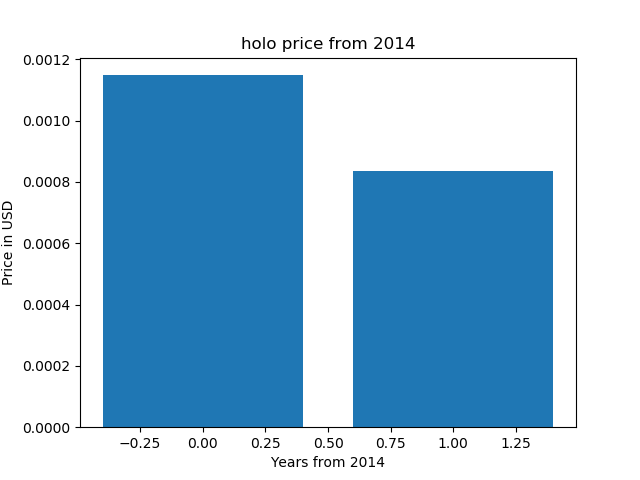
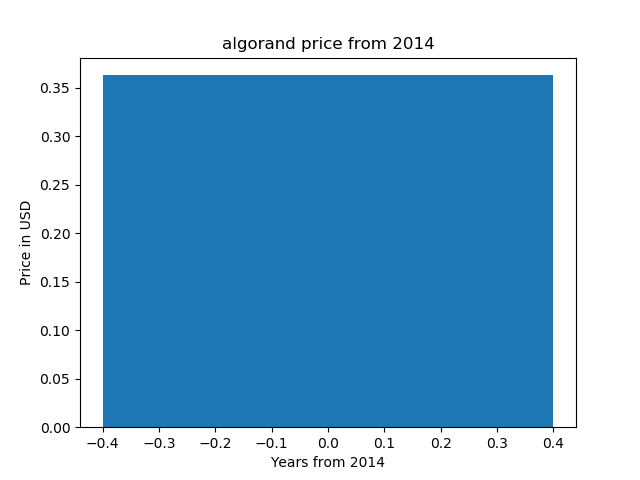
first commit

diff --git a/example.py b/example.py
@@ -10,7 +10,7 @@ from time import gmtime, strftime
 import matplotlib.pyplot as plt
 
 enddate = strftime("%Y%m%d", gmtime())
-r  = requests.get("https://coinmarketcap.com/currencies/holo/historical-data/?start=20140101&end={0}".format(enddate))
+r  = requests.get("https://coinmarketcap.com/currencies/algorand/historical-data/?start=20140101&end={0}".format(enddate))
 data = r.text
 
 soup = BeautifulSoup(data, "html.parser")
@@ -44,7 +44,7 @@ print(x)
 
 x = list(range(0, len(prices)))
 
-plt.title('holo price from 2014')
+plt.title('algorand price from 2014')
 plt.ylabel('Price in USD')
 plt.xlabel('Years from 2014')
 plt.bar(x, prices)

diff --git a/README.md b/README.md
@@ -1,6 +1,6 @@
-# holo price chart 
+# algorand price chart 
 
-holo price chart (matplotlib, python)
+algorand price chart (matplotlib, python)
 
 https://pythonprogramminglanguage.com
 
